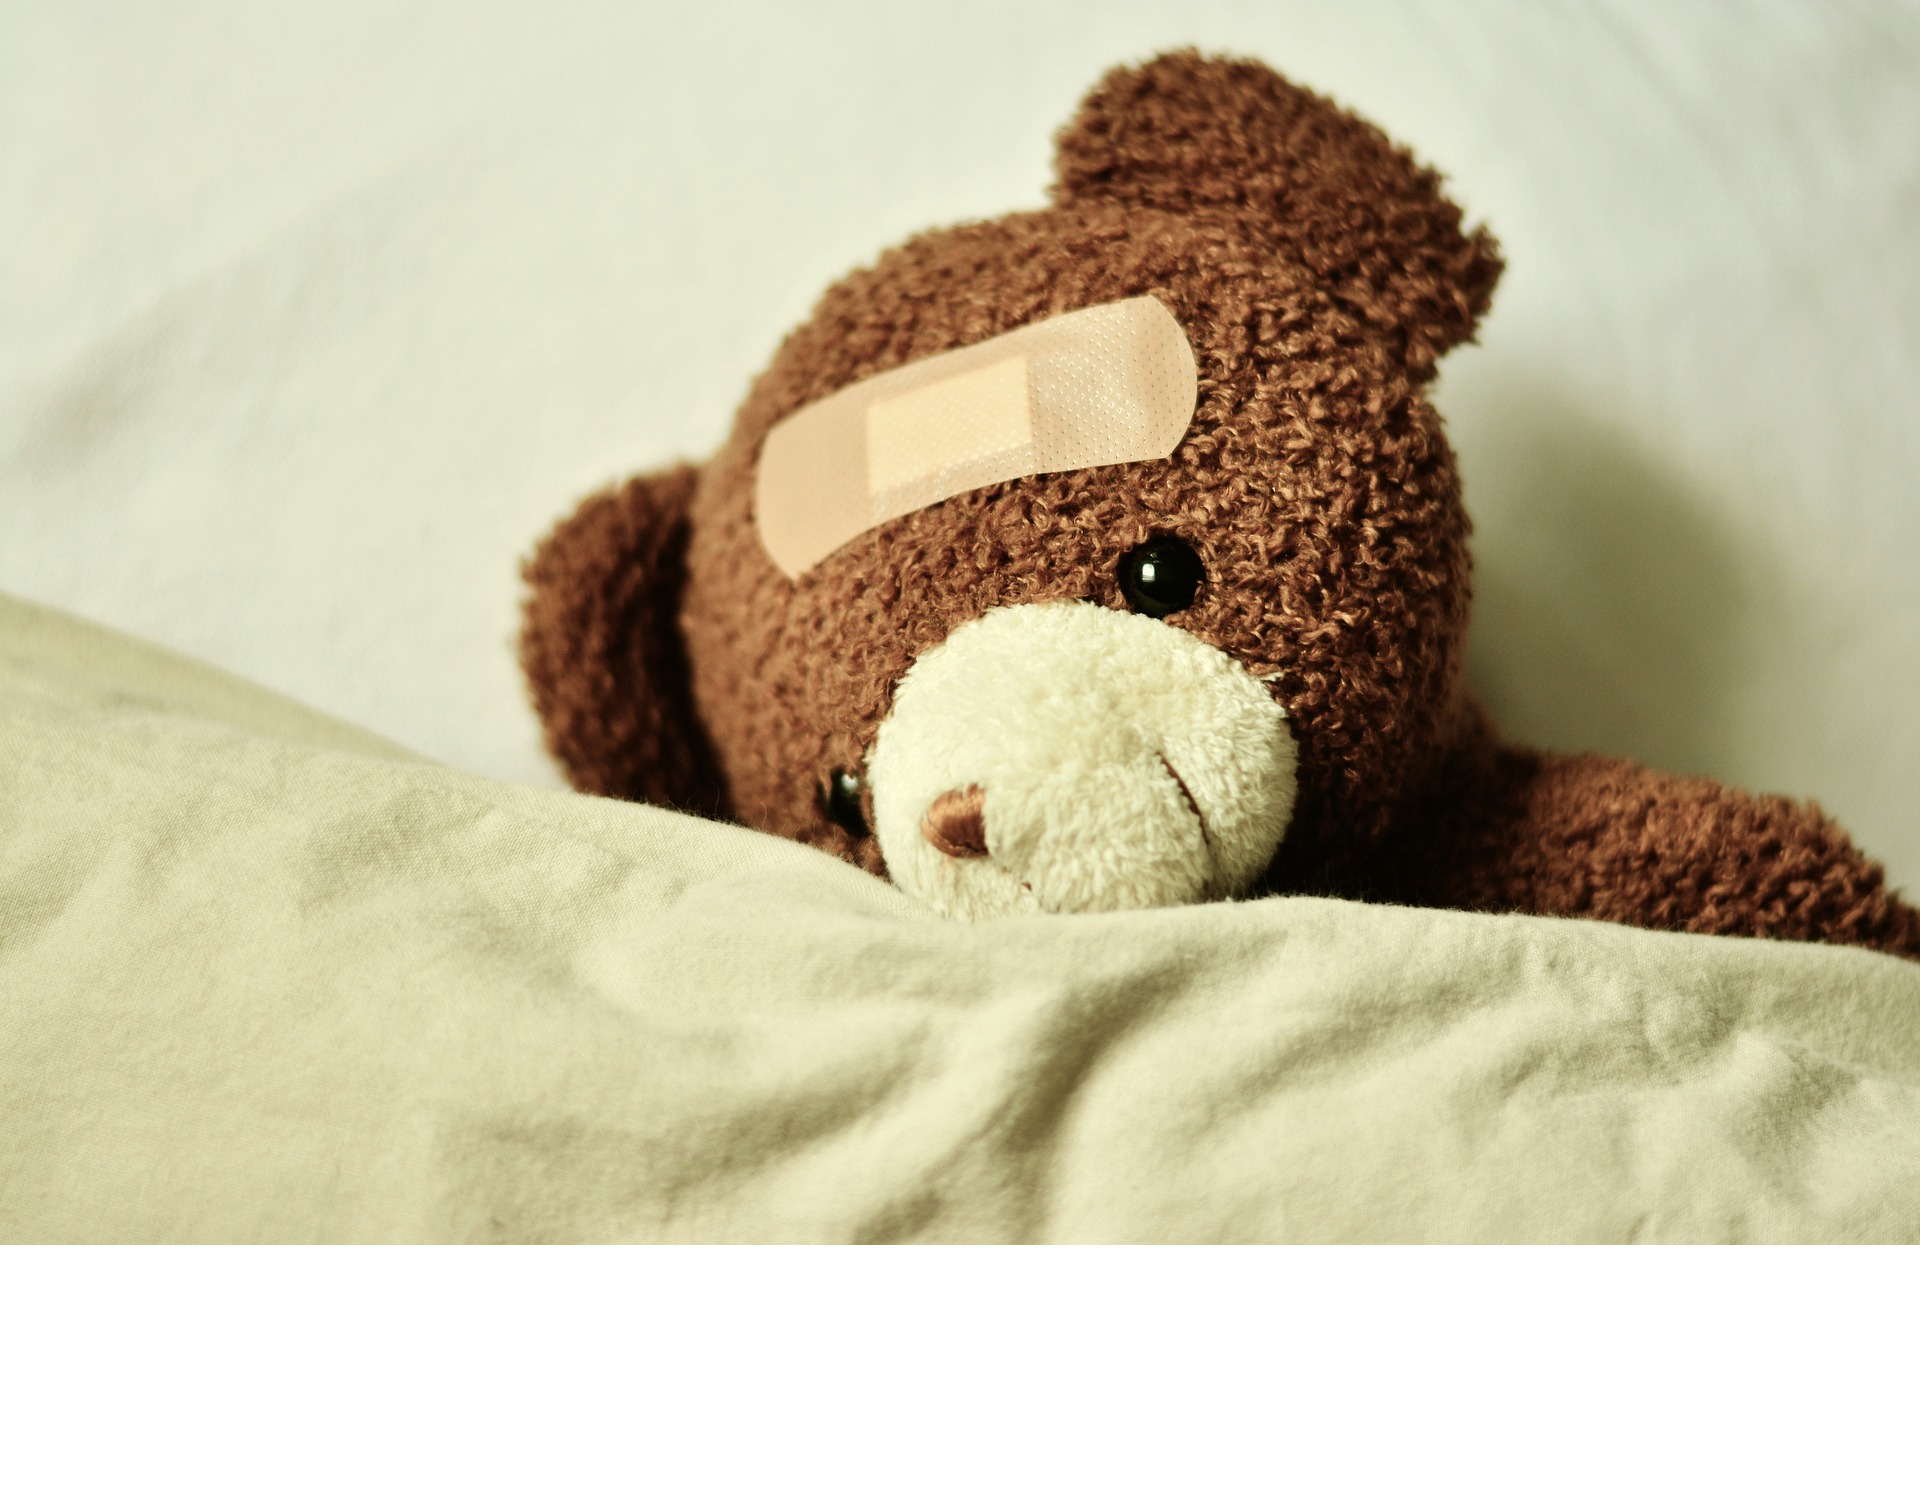
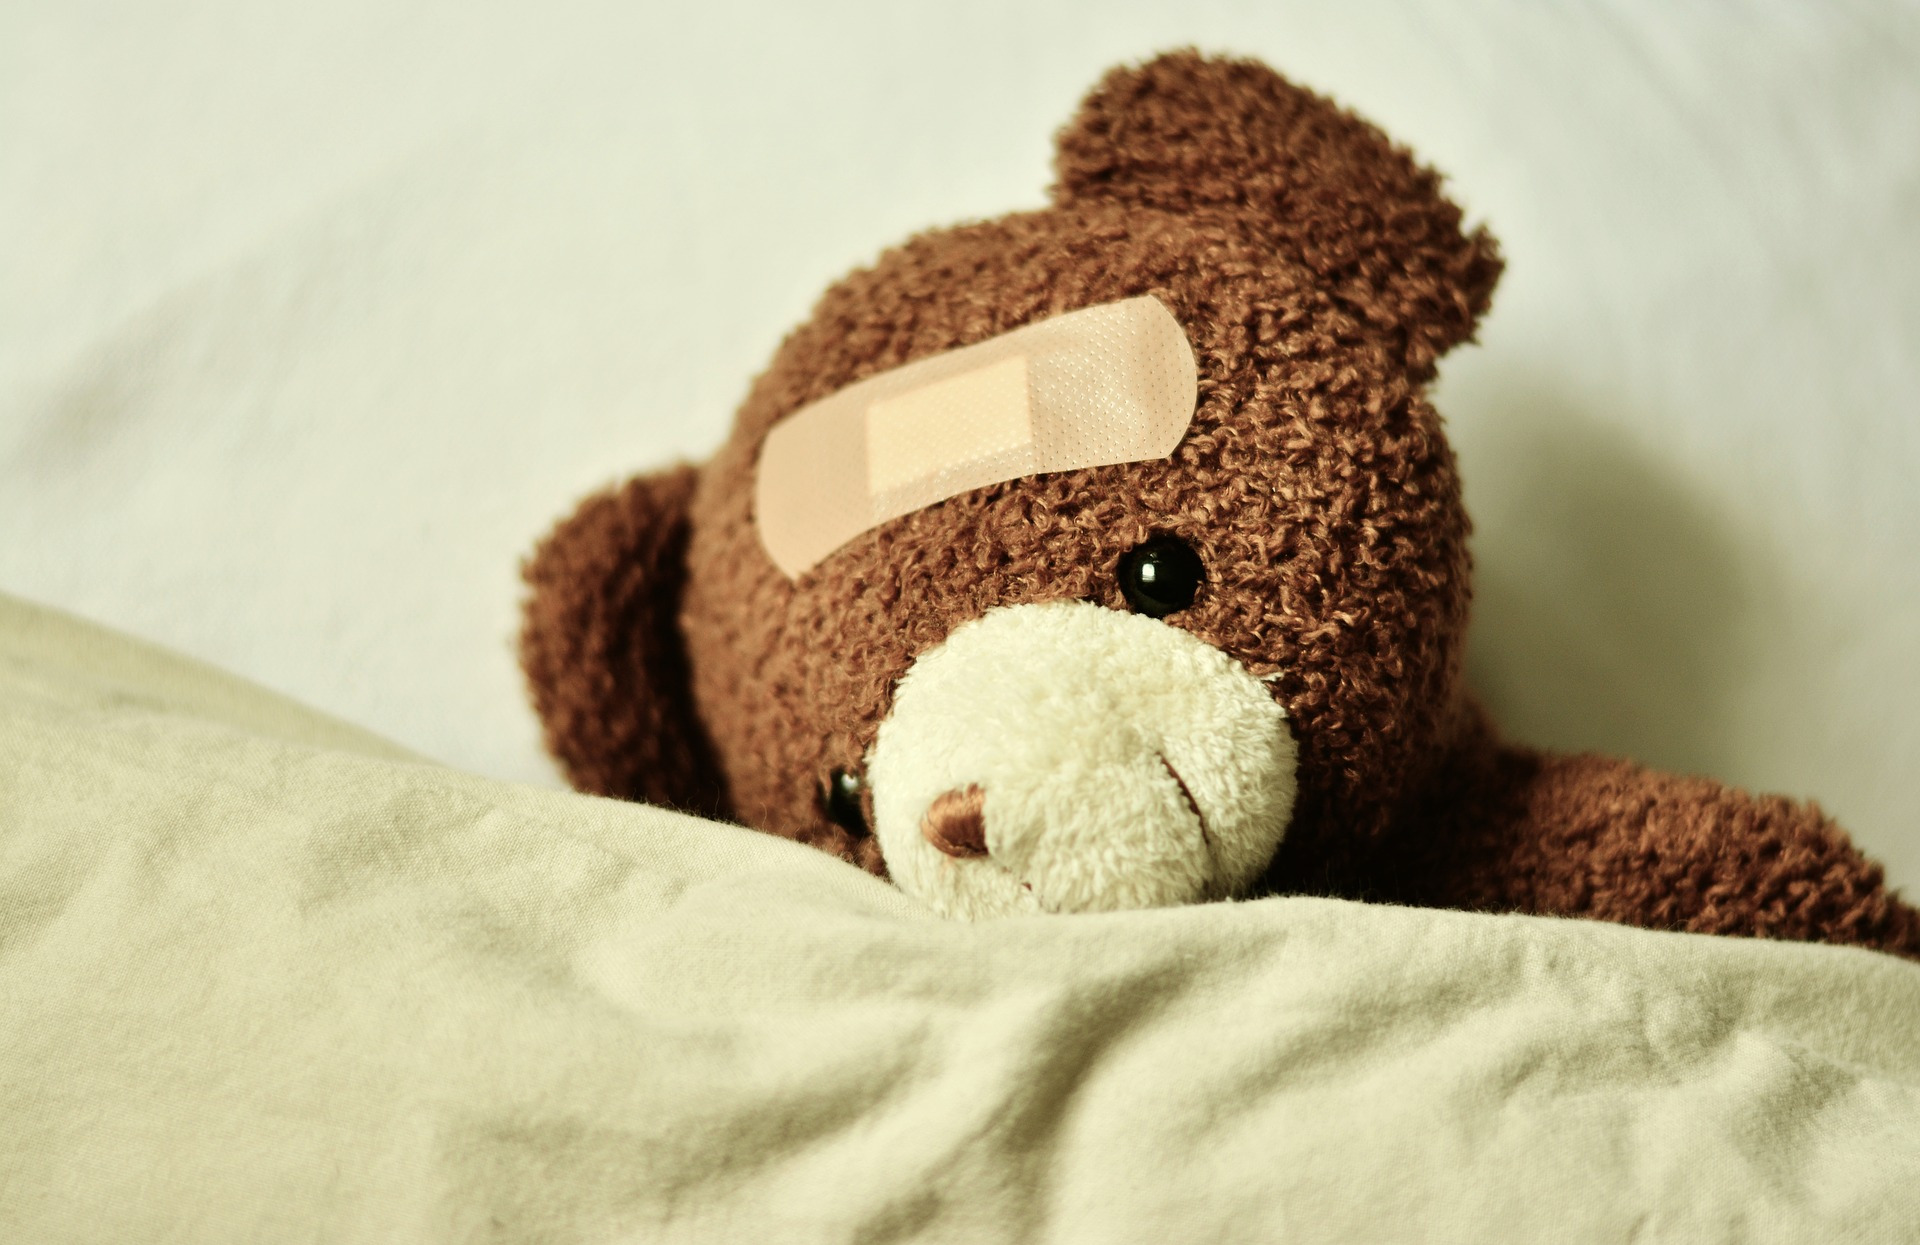
A9 patch graphic sized

diff --git a/PITCHME.md b/PITCHME.md
@@ -948,6 +948,5 @@ https://html5sec.org/
 <br>
 - Nicht benötigt --> Anpassen
 
-+++
++++?image=/res/patch.jpg
 ### Patch!
-![patch](/res/patch.jpg)
